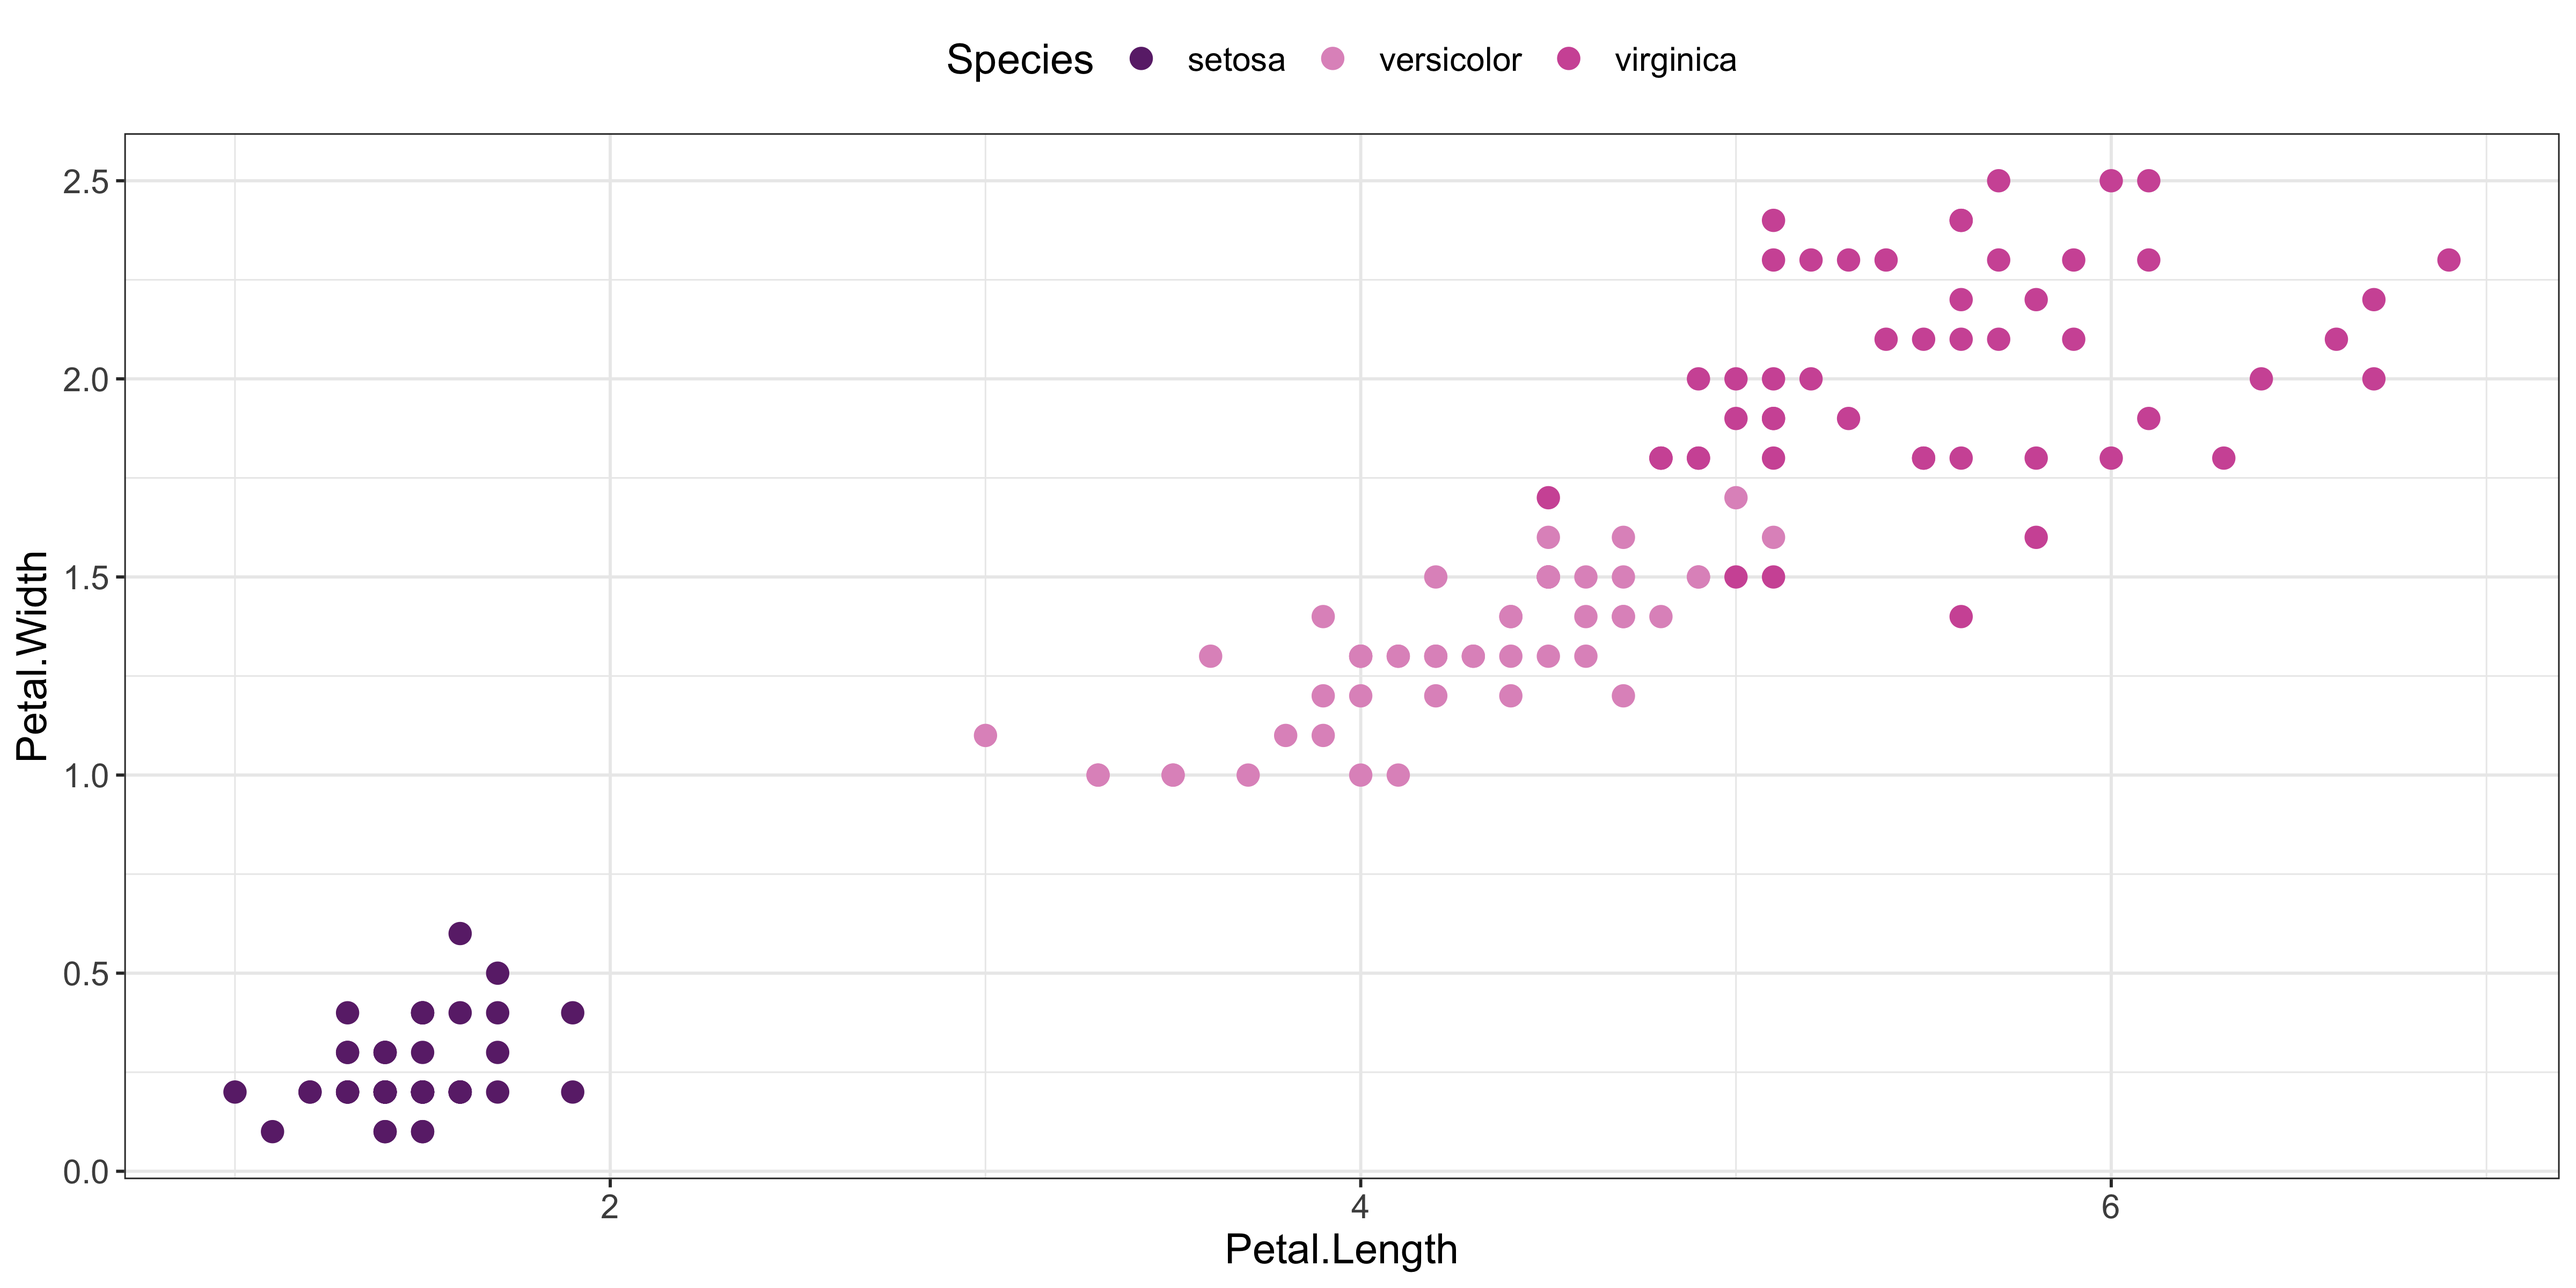
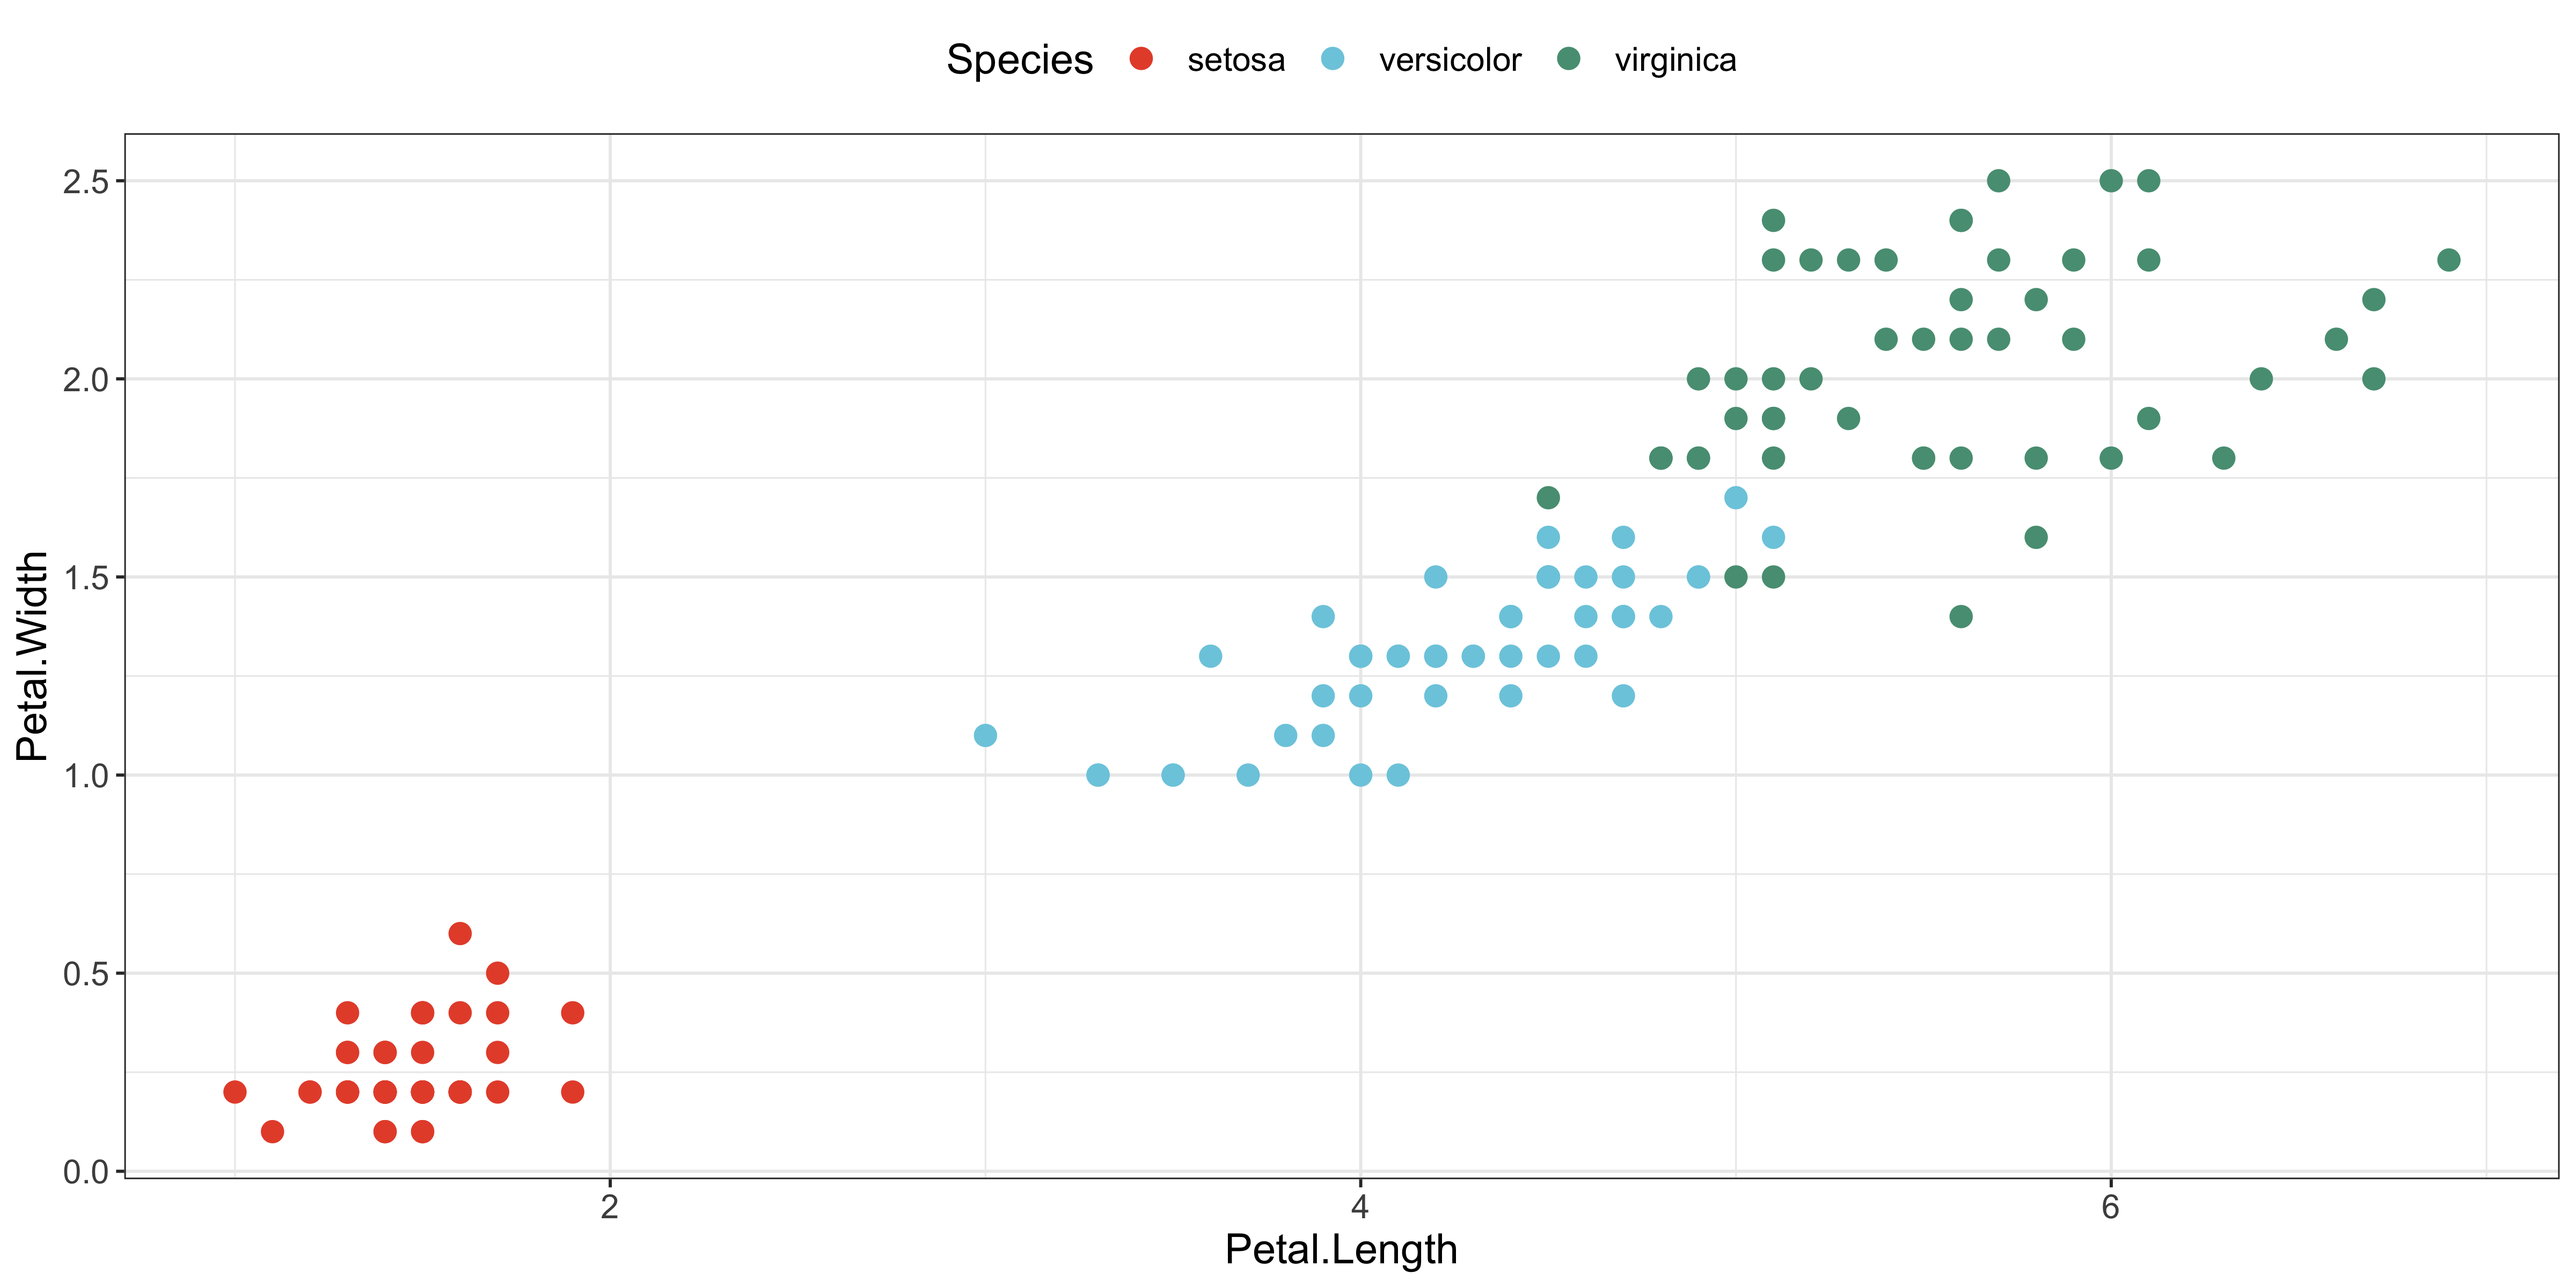
Update README
* update palette names

diff --git a/README.md b/README.md
@@ -24,8 +24,7 @@ List the names of all available palettes with `list_palettes()`:
 list_palettes()
 ```
 
-    ## [1] "esther"           "fluorescent_rush" "glue"             "hot_bot"         
-    ## [5] "ibrik"            "poodle_power"
+    ## [1] "bodied" "esther" "glue"   "hotbot" "ibrik"  "poodle" "rush"
 
 ### Visualise palettes
 
@@ -38,7 +37,7 @@ print_palette(name = "esther")
 ![](man/figures/vis_palettes-1.png)
 
 ``` r
-print_palette(name = "fluorescent_rush")
+print_palette(name = "rush")
 ```
 
 ![](man/figures/vis_palettes-2.png)
@@ -50,7 +49,7 @@ print_palette(name = "glue")
 ![](man/figures/vis_palettes-3.png)
 
 ``` r
-print_palette(name = "hot_bot")
+print_palette(name = "hotbot")
 ```
 
 ![](man/figures/vis_palettes-4.png)
@@ -62,10 +61,16 @@ print_palette(name = "ibrik")
 ![](man/figures/vis_palettes-5.png)
 
 ``` r
-print_palette(name = "poodle_power")
+print_palette(name = "poodle")
 ```
 
 ![](man/figures/vis_palettes-6.png)
+
+``` r
+print_palette(name = "bodied")
+```
+
+![](man/figures/vis_palettes-7.png)
 
 ### Examples
 
@@ -73,7 +78,7 @@ print_palette(name = "poodle_power")
 ggplot(data = iris,
        aes(x = Petal.Length, y = Petal.Width, col = Species)) +
   geom_point(size = 3) +
-  scale_color_techno(name = "hot_bot") +
+  scale_color_techno(name = "bodied") +
   theme_bw() +
   theme(legend.position = "top",
         text = element_text(size = 14))
@@ -87,9 +92,10 @@ Print the track name, artist name and URL link for a named palette with
 `info()`:
 
 ``` r
-info("fluorescent_rush")
+info("rush")
 ```
 
-    ## Track name:  One More Fluorescent Rush 
-    ##     Artist:  Avalon Emerson 
-    ##        URL:  https://avalonemerson.bandcamp.com/track/one-more-fluorescent-rush
+    ##      Artist:  Avalon Emerson 
+    ##      Record:  Whities 013 
+    ##  Track name:  One More Fluorescent Rush 
+    ##         URL:  https://avalonemerson.bandcamp.com/track/one-more-fluorescent-rush
